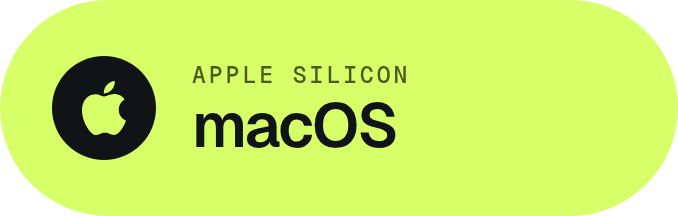
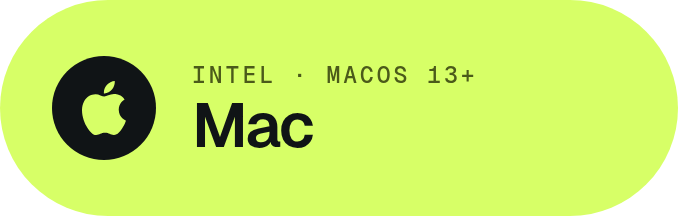
README: Mac button is the Intel build, Apple silicon gets its own button, add the how-to-tell hint

diff --git a/README.md b/README.md
@@ -7,14 +7,17 @@
 <br>
 <br>
 
-<a href="https://dl.dani.danlab.dev/desktop/Dani-Dex-mac-arm64.dmg"><picture><source media="(prefers-color-scheme: dark)" srcset="docs/assets/readme/btn-mac-dark.png"><source media="(prefers-color-scheme: light)" srcset="docs/assets/readme/btn-mac-light.png"><img src="docs/assets/readme/btn-mac-light.png" width="226" alt="Download for macOS (Apple silicon)"></picture></a>&nbsp;
-<a href="https://dl.dani.danlab.dev/desktop/Dani-Dex-win-x64.exe"><picture><source media="(prefers-color-scheme: dark)" srcset="docs/assets/readme/btn-win-dark.png"><source media="(prefers-color-scheme: light)" srcset="docs/assets/readme/btn-win-light.png"><img src="docs/assets/readme/btn-win-light.png" width="226" alt="Download for Windows (installer)"></picture></a>&nbsp;
-<picture><source media="(prefers-color-scheme: dark)" srcset="docs/assets/readme/btn-lin-dark.png"><source media="(prefers-color-scheme: light)" srcset="docs/assets/readme/btn-lin-light.png"><img src="docs/assets/readme/btn-lin-light.png" width="226" alt="Linux, coming soon"></picture>
+<a href="https://dl.dani.danlab.dev/desktop/Dani-Dex-mac-x64.dmg"><picture><source media="(prefers-color-scheme: dark)" srcset="docs/assets/readme/btn-mac-dark.png"><source media="(prefers-color-scheme: light)" srcset="docs/assets/readme/btn-mac-light.png"><img src="docs/assets/readme/btn-mac-light.png" width="210" alt="Download for Mac (Intel)"></picture></a>&nbsp;
+<a href="https://dl.dani.danlab.dev/desktop/Dani-Dex-mac-arm64.dmg"><picture><source media="(prefers-color-scheme: dark)" srcset="docs/assets/readme/btn-macs-dark.png"><source media="(prefers-color-scheme: light)" srcset="docs/assets/readme/btn-macs-light.png"><img src="docs/assets/readme/btn-macs-light.png" width="210" alt="Download for Mac (Apple silicon, M1 and newer)"></picture></a>&nbsp;
+<a href="https://dl.dani.danlab.dev/desktop/Dani-Dex-win-x64.exe"><picture><source media="(prefers-color-scheme: dark)" srcset="docs/assets/readme/btn-win-dark.png"><source media="(prefers-color-scheme: light)" srcset="docs/assets/readme/btn-win-light.png"><img src="docs/assets/readme/btn-win-light.png" width="210" alt="Download for Windows (installer)"></picture></a>&nbsp;
+<picture><source media="(prefers-color-scheme: dark)" srcset="docs/assets/readme/btn-lin-dark.png"><source media="(prefers-color-scheme: light)" srcset="docs/assets/readme/btn-lin-light.png"><img src="docs/assets/readme/btn-lin-light.png" width="210" alt="Linux, coming soon"></picture>
 
-<a href="https://dl.dani.danlab.dev/android/dani-dex.apk"><picture><source media="(prefers-color-scheme: dark)" srcset="docs/assets/readme/btn-and-dark.png"><source media="(prefers-color-scheme: light)" srcset="docs/assets/readme/btn-and-light.png"><img src="docs/assets/readme/btn-and-light.png" width="226" alt="Download for Android (APK)"></picture></a>&nbsp;
-<picture><source media="(prefers-color-scheme: dark)" srcset="docs/assets/readme/btn-ios-dark.png"><source media="(prefers-color-scheme: light)" srcset="docs/assets/readme/btn-ios-light.png"><img src="docs/assets/readme/btn-ios-light.png" width="226" alt="iOS, coming soon"></picture>
+<a href="https://dl.dani.danlab.dev/android/dani-dex.apk"><picture><source media="(prefers-color-scheme: dark)" srcset="docs/assets/readme/btn-and-dark.png"><source media="(prefers-color-scheme: light)" srcset="docs/assets/readme/btn-and-light.png"><img src="docs/assets/readme/btn-and-light.png" width="210" alt="Download for Android (APK)"></picture></a>&nbsp;
+<picture><source media="(prefers-color-scheme: dark)" srcset="docs/assets/readme/btn-ios-dark.png"><source media="(prefers-color-scheme: light)" srcset="docs/assets/readme/btn-ios-light.png"><img src="docs/assets/readme/btn-ios-light.png" width="210" alt="iOS, coming soon"></picture>
 
-<sub>Also: [Mac (Intel)](https://dl.dani.danlab.dev/desktop/Dani-Dex-mac-x64.dmg) · [Checksums and versions](https://dl.dani.danlab.dev/latest.json) · [All releases](https://github.com/Dan-Labs-Agi/dani-dex/releases)</sub>
+<sub>Not sure which Mac you have? Apple menu > About This Mac: "Chip Apple M..." means [Apple silicon](https://dl.dani.danlab.dev/desktop/Dani-Dex-mac-arm64.dmg), "Intel" means [Intel](https://dl.dani.danlab.dev/desktop/Dani-Dex-mac-x64.dmg).</sub>
+
+<sub>Also: [Checksums and versions](https://dl.dani.danlab.dev/latest.json) · [All releases](https://github.com/Dan-Labs-Agi/dani-dex/releases)</sub>
 
 <br>
 
@@ -98,7 +101,7 @@ See [ARCHITECTURE.md](docs/ARCHITECTURE.md) for the layers, and the [development
 
 **Download an installer** with the buttons at the top. Downloads come from `dl.dani.danlab.dev`. The apps are not code-signed yet, so the first launch shows a warning.
 
-- **Mac:** open the file and drag Dani Dex to Applications. The first time, Control-click Dani Dex in Applications and choose **Open**. If macOS still blocks it, go to **System Settings > Privacy & Security** and click **Open Anyway**. Needs macOS 13 or newer.
+- **Mac:** pick the Intel or Apple silicon file (see the hint above). Open the file and drag Dani Dex to Applications. The first time, Control-click Dani Dex in Applications and choose **Open**. If macOS still blocks it, go to **System Settings > Privacy & Security** and click **Open Anyway**. Needs macOS 13 or newer.
 - **Windows:** run the installer. If a blue SmartScreen window appears, click **More info**, then **Run anyway**.
 - **Android:** download the APK and open it. Allow installs from your browser or file manager when Android asks. If Play Protect warns, choose **Install anyway**.
 - **Linux and iOS:** coming soon.
